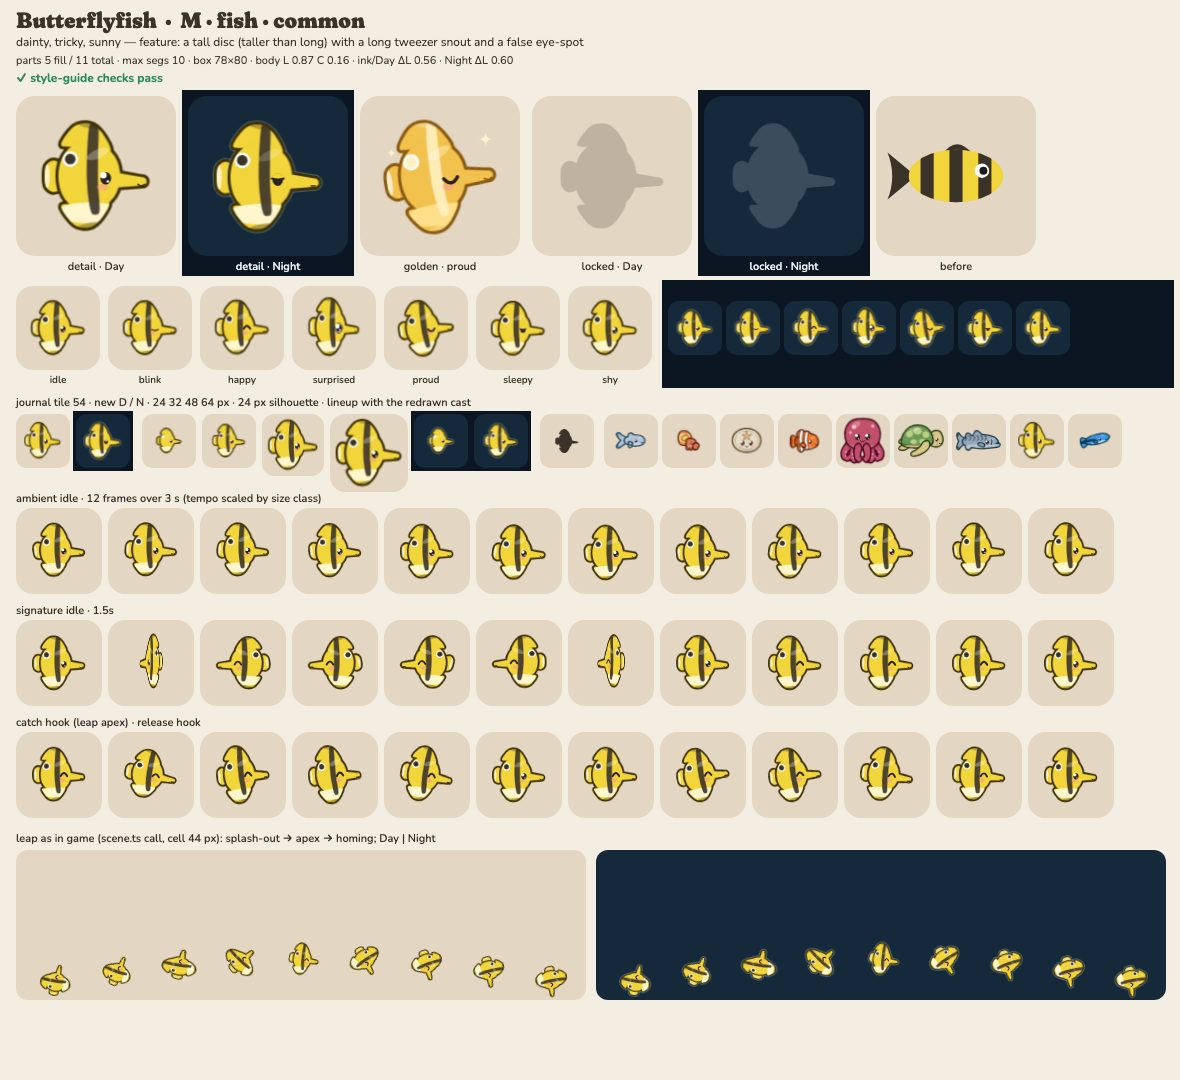
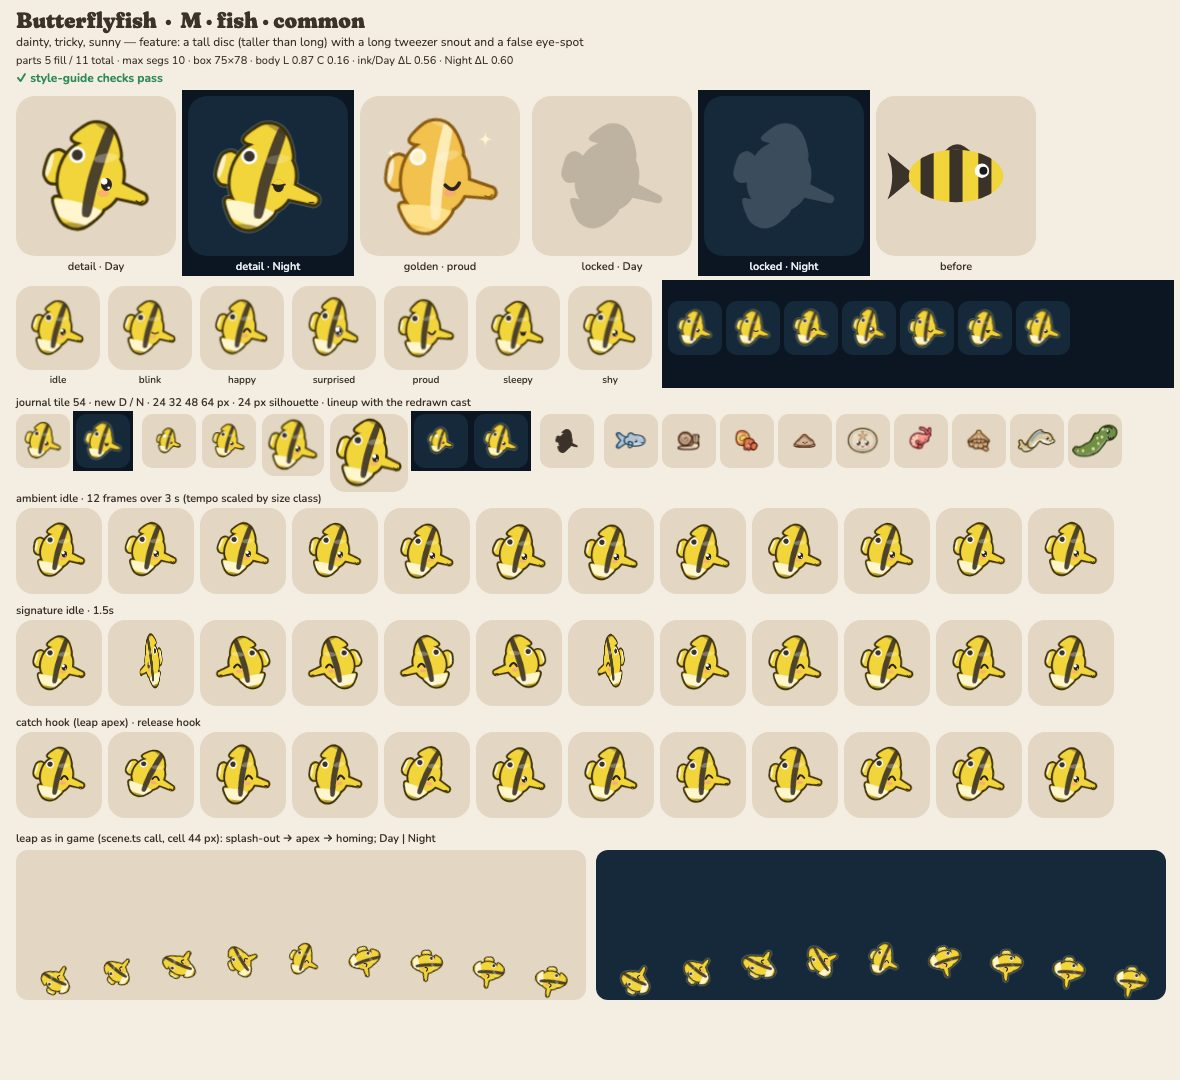
art: butterfly hovers nose-down, clears the sunfish (ADR 0011)
Full-cast rebase: butterfly/sunfish was 0.71. A 17 degree nose-down tilt (picking at the reef). Now sunfish 0.68, combjelly 0.76 (cross-class).

diff --git a/src/render/art/species/butterfly.ts b/src/render/art/species/butterfly.ts
@@ -5,7 +5,16 @@
  * Personality: dainty, tricky, sunny. Signature: turns around to show off its false eye, turns back
  * and winks with the real one.
  */
-import { blob, capsule, circle, defineArt, ellipse, join, tube } from '../kit.ts';
+import { blob, capsule, circle, defineArt, ellipse, join, tube, xform } from '../kit.ts';
+
+// it hovers nose-down at a dainty TILT, tweezer snout picking at the reef: the pose that keeps the
+// tall disc apart from the sunfish and the round jellies at 24 px (R12)
+const TILT = 17;
+const R = (d: string) => xform(d, { rot: TILT });
+const tc = Math.cos((TILT * Math.PI) / 180),
+  ts = Math.sin((TILT * Math.PI) / 180);
+/** An anchor on the drawing grid, mapped like the paths. */
+const P = (x: number, y: number): [number, number] => [x * tc - y * ts, x * ts + y * tc];
 
 // the disc: a deep, nearly round body
 const body = blob([
@@ -80,25 +89,25 @@ export default defineArt({
   groups: [
     {
       id: 'tail',
-      pivot: [-27, 0],
+      pivot: P(-27, 0),
       parts: [
-        { d: tail, role: 'body' },
-        { d: ellipse(-40.5, 0, 4, 12), role: 'white', kind: 'pattern', alpha: 0.7 },
+        { d: R(tail), role: 'body' },
+        { d: R(ellipse(-40.5, 0, 4, 12)), role: 'white', kind: 'pattern', alpha: 0.7 },
       ],
     },
     {
       id: 'body',
       parts: [
-        { d: dorsal, role: 'body' },
-        { d: anal, role: 'body' },
-        { d: body, role: 'body' },
-        { d: snout, role: 'body' },
-        { d: ellipse(-6, 28, 26, 8), role: 'belly', kind: 'pattern' },
-        { d: band, role: 'accent', kind: 'pattern', alpha: 0.9 },
-        { d: falseRing, role: 'white', kind: 'pattern' },
-        { d: falseEye, role: 'accent', kind: 'pattern' },
+        { d: R(dorsal), role: 'body' },
+        { d: R(anal), role: 'body' },
+        { d: R(body), role: 'body' },
+        { d: R(snout), role: 'body' },
+        { d: R(ellipse(-6, 28, 26, 8)), role: 'belly', kind: 'pattern' },
+        { d: R(band), role: 'accent', kind: 'pattern', alpha: 0.9 },
+        { d: R(falseRing), role: 'white', kind: 'pattern' },
+        { d: R(falseEye), role: 'accent', kind: 'pattern' },
         {
-          d: join(ellipse(-8, -41, 14, 4, 14), ellipse(-8, 40, 13, 4, -14)),
+          d: R(join(ellipse(-8, -41, 14, 4, 14), ellipse(-8, 40, 13, 4, -14))),
           role: 'accent',
           kind: 'pattern',
           alpha: 0.35,
@@ -106,12 +115,12 @@ export default defineArt({
       ],
     },
   ],
-  shine: ellipse(0, -17, 9, 3.4, -24),
+  shine: R(ellipse(0, -17, 9, 3.4, -24)),
   face: {
-    eyes: [[6, 1.5]],
+    eyes: [P(6, 1.5)],
     eye: 9.5,
     zone: [-8, -24, 41, 46],
-    mouth: { at: [33, 6], w: 5, shape: 'smile' },
+    mouth: { at: P(33, 6), w: 5, shape: 'smile' },
     sweet: true,
   },
   idle: {
